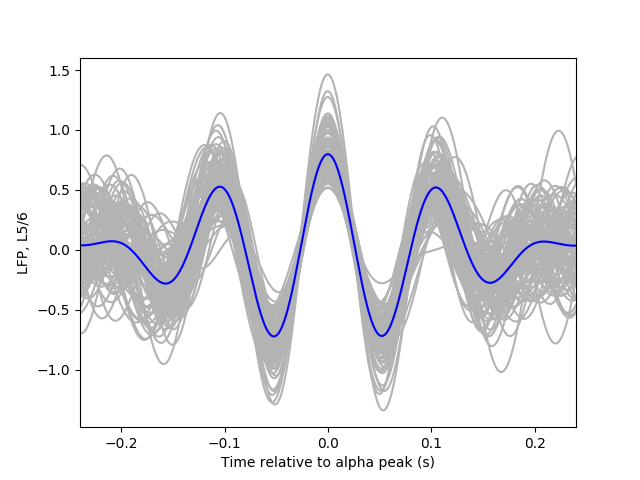
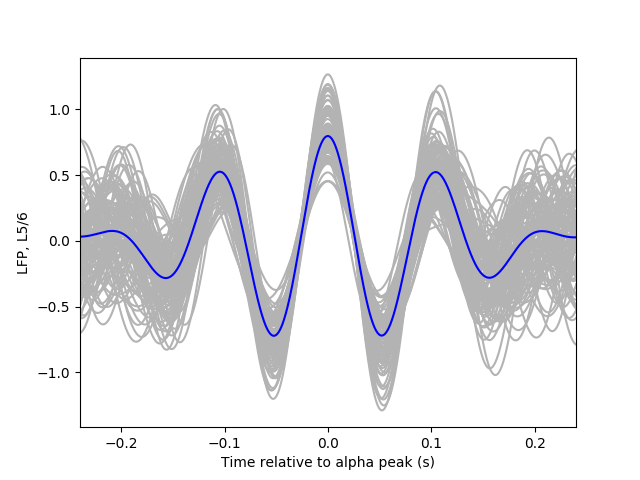
Update the pythonfunction arguments
* noise is no longer one the arguments that can be passed to the python function.
The std of the noise is always assumed to be one.
* sigmaoveride can now be passed in order to use the sigmas for each population
 as noise.

diff --git a/Python/helper_functions.py b/Python/helper_functions.py
@@ -110,9 +110,9 @@ def firing_rate_analysis(tau,
                          sig,
                          noconns=False, 
                          testduration=1000, # ms
-                         sigmaoverride = None,
+                         sigmaoverride=None,
                          initialrate=5,
-                         dt = 2e-4): 
+                         dt=2e-4):
                          
     ########################################################################################################################
     #                                                      Intralaminar

diff --git a/Python/README.md b/Python/README.md
@@ -8,7 +8,7 @@ As in the original paper, we tested the effect on the gamma frequency on layer 2
 Note that, to obtain this power spectrum the authors subtracted the case with no input to the case with different inputs.
 The plot below can be generated by running:
 ```
-python Mejias-2016.py -noise 1 -analysis intralaminar
+python Mejias-2016.py -analysis intralaminar
 ```
 ![](intralaminar/intralaminar.png)
 
@@ -16,7 +16,7 @@ python Mejias-2016.py -noise 1 -analysis intralaminar
 Here we consider connections between the L2/3 and L5/6 layer. As described in the original paper, when the interlaminar coupling is present (green and orange lines below) the oscillatory dynamics spread across the layers. This is clearly visible in the plot below, where the power spectrum of Layer 2/3 shows a strong alpha component only when both layers are coupled.
 
 ```
-python Mejias-2016.py -noise 1 -analysis interlaminar_a
+python Mejias-2016.py -analysis interlaminar_a
 ```
 <p float="left">
   <img src="interlaminar_a/spectrogram_l23.png" width="300"/>
@@ -26,7 +26,7 @@ python Mejias-2016.py -noise 1 -analysis interlaminar_a
 To further analyse the dynamic interaction between the two layers the authors analysed the LFP (Local Field Potential) from the layer 5/6 with respect to the alpha rhythm from Layer 2/3. The analysis can by calling:
 
 ```
-python Mejias-2016.py -noise 1 -analysis interlaminar_b
+python Mejias-2016.py -analysis interlaminar_b
 ```
 ![](interlaminar_b/activity_traces.png)
 
